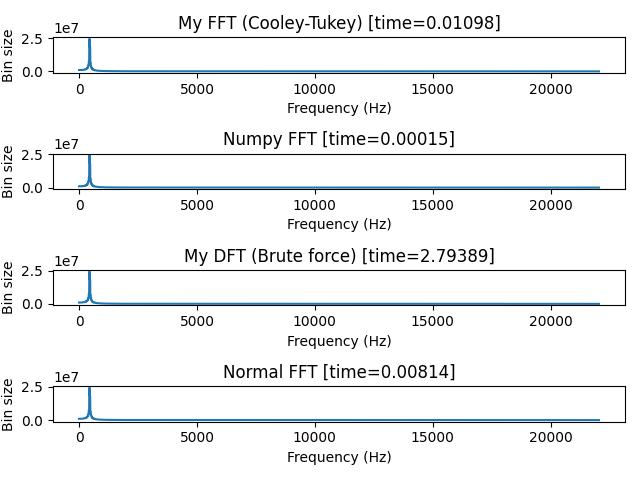
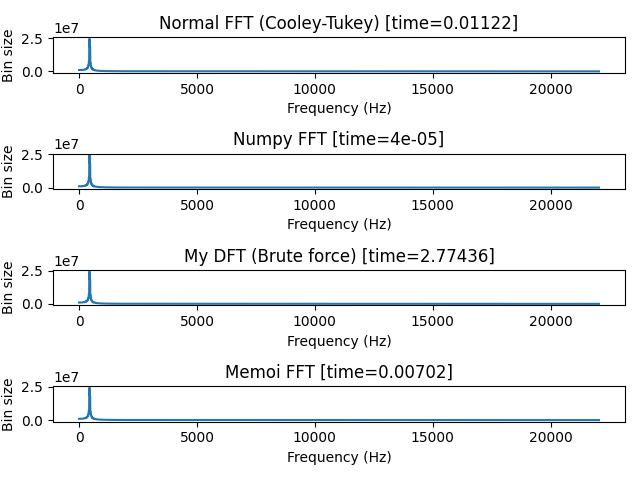
Edit title for my FFT

diff --git a/src/fourier_exp_000/fft.py b/src/fourier_exp_000/fft.py
@@ -184,7 +184,7 @@ def main(args):
     my_dft_time = round(end - start, 5)
 
     fig, axs = plt.subplots(4, 1)
-    axs[0].set_title('My FFT (Cooley-Tukey) [time={}]'.format(normal_fft_time))
+    axs[0].set_title('Normal FFT (Cooley-Tukey) [time={}]'.format(normal_fft_time))
     axs[0].set_xlabel('Frequency (Hz)')
     axs[0].set_ylabel('Bin size')
     axs[0].plot(np.arange(22050), scale_for_graph(freq_bins_normal_fft[:len(freq_bins_normal_fft) // 2], 22050))
@@ -200,7 +200,7 @@ def main(args):
     axs[2].plot(np.arange(22050), scale_for_graph(freq_bins_my_dft[:len(freq_bins_numpy_fft) // 2], 22050))
 
 
-    axs[3].set_title('Normal FFT [time={}]'.format(memoi_fft_time))
+    axs[3].set_title('Memoi FFT [time={}]'.format(memoi_fft_time))
     axs[3].set_xlabel('Frequency (Hz)')
     axs[3].set_ylabel('Bin size')
     axs[3].plot(np.arange(22050), scale_for_graph(freq_bins_memoi_fft[:len(freq_bins_memoi_fft) // 2], 22050))
